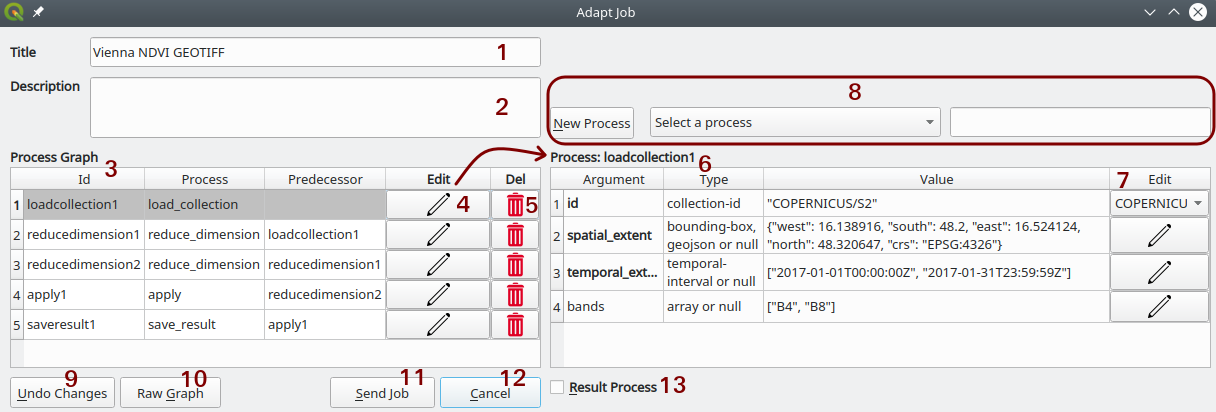
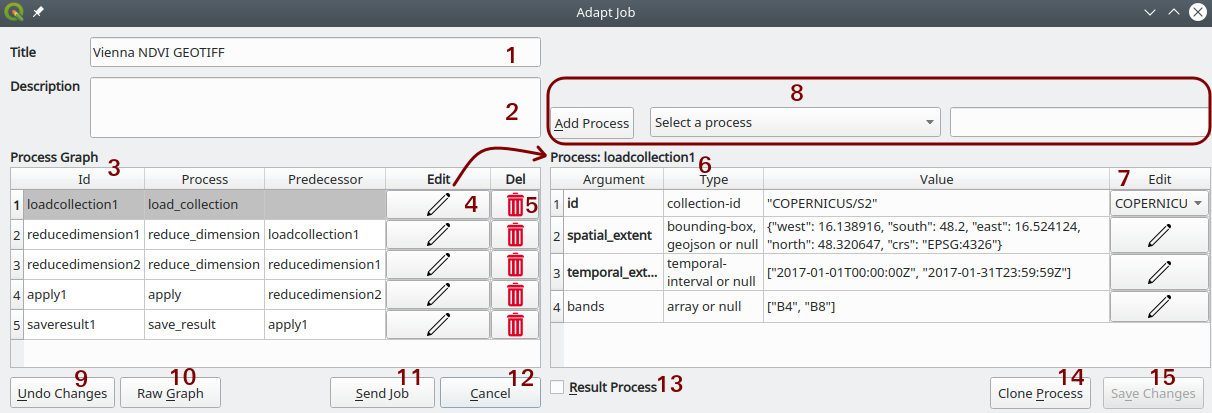
updated QGIS screenshot for adapting jobs

diff --git a/documentation/1.0/getting-started/qgis-plugin.md b/documentation/1.0/getting-started/qgis-plugin.md
@@ -140,7 +140,7 @@ function in the fourth column of the process table (e.g. drop down menu of all a
 adaption of the arguments easier. This is the case, every time the field of the fourth column of the process table is 
 not empty.
 8. **Add Process** - If you want to add a new process to the process graph you can select one with the drop down menu 
-(see "Select a process") and press the button labeled "New Process". The text field on the right will be the new node id 
+(see "Select a process") and press the button labeled "Add Process". The text field on the right will be the new node id 
 and it is autogenerated after selecting a process, but can also be chosen by typing something different into it. Note 
 that it has to be unique within the jobs process graph, otherwise the QGIS will show an error message.
 9. **Undo Changes** - Press this button if you want to undo all changes that you did on the job.  
@@ -152,7 +152,12 @@ If nothing went wrong during the job creation, it will close the adaption window
 13. **Result Process** - This checkbox needs to be checked on the last process of the process graph. It tells the 
 backend that the result of the checked process is the output of the job (usually a "save_result" process). Note that 
 only one process of the process graph can be checked as a result. 
-
+14. **Clone Process** - When clicking on this button, a clone of the currently selected node gets created and loaded 
+into the process table on the right. Note that clicking on this button does not add it to the process graph, you need to 
+press on the "Add Process" button.
+15. **Save Changes** - Changes on the process arguments are not stored in the process graph until this button is pressed.
+You can see if there are unsaved changes if this button is enabled (see screenshot "Clone Process" button), otherwise it 
+is disabled (see screenshot). 
 #### Process Argument Helper
 
 For some process arguments the QGIS plugin provides helper functions for more convenient editing. 
@@ -184,7 +189,7 @@ processes). When clicking on the edit button, the plugin opens a new adaption wi
 adaption window, but shows the sub process graph:
 ![QGIS Edit sub process graph](./images/edit_subpg.png "Editing sub process graph")
 In this window you can adapt the sub process graph in the same way as the original process graph. After pressing on 
-"Adapt" the changes are written to the original job. Note that the sub process graph also needs to have at least one 
+"Adapt", the changes are written to the original job. Note that the sub process graph also needs to have at least one 
 result process.
 
 ## Tab3: Services
